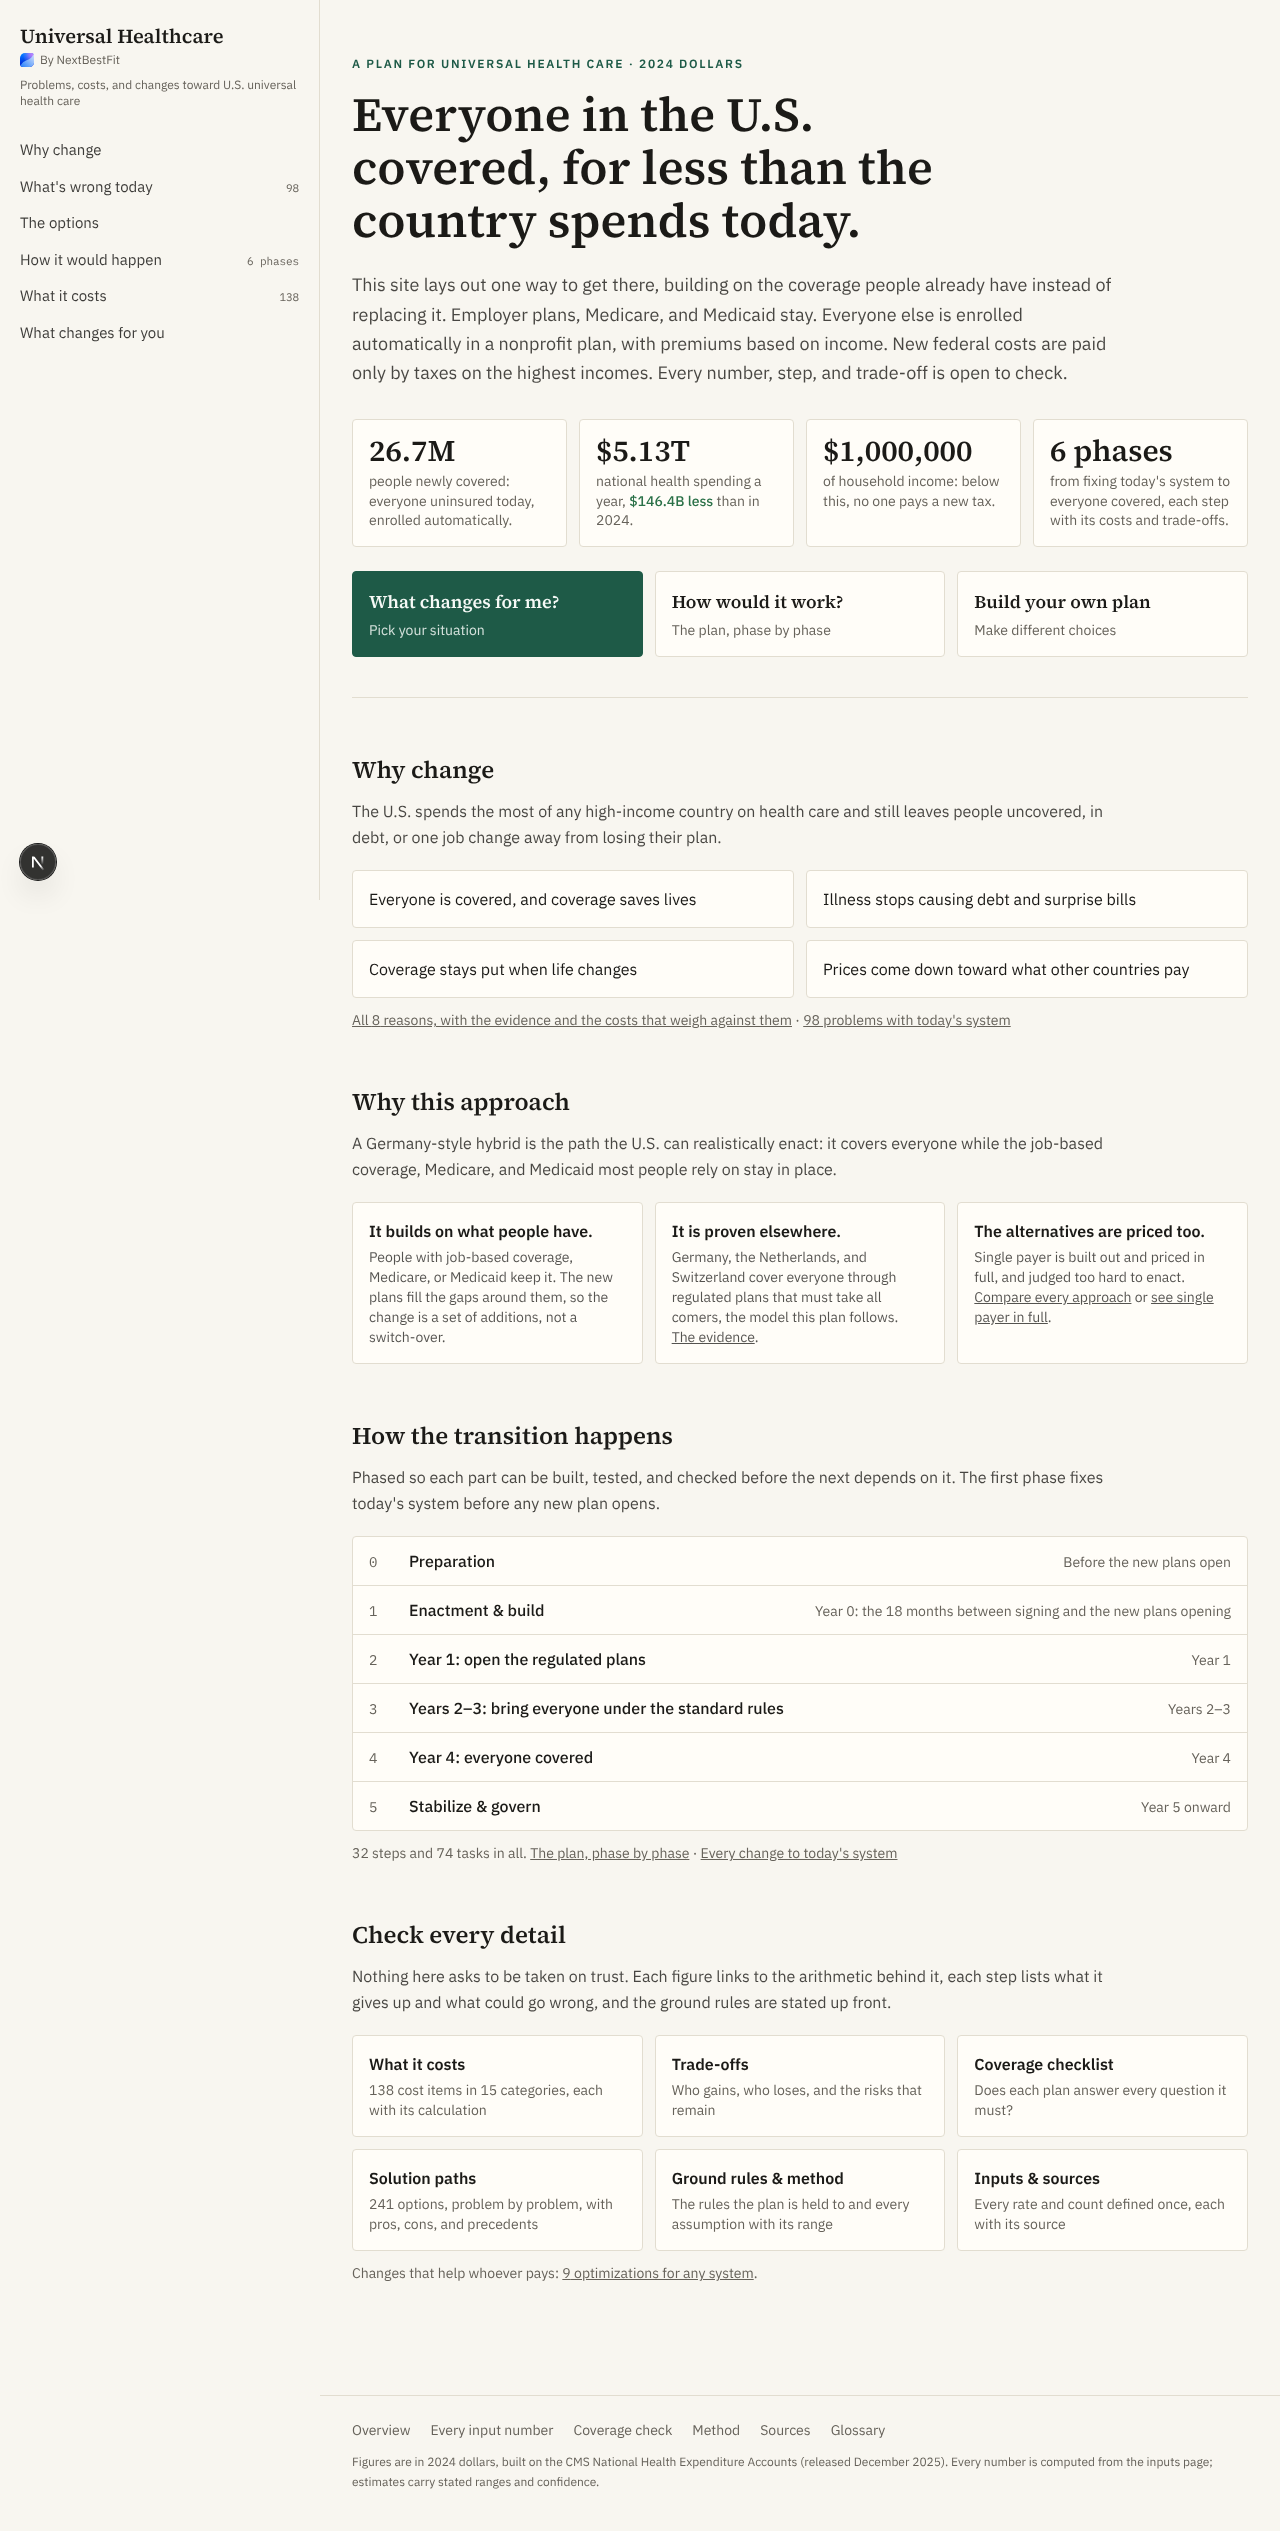
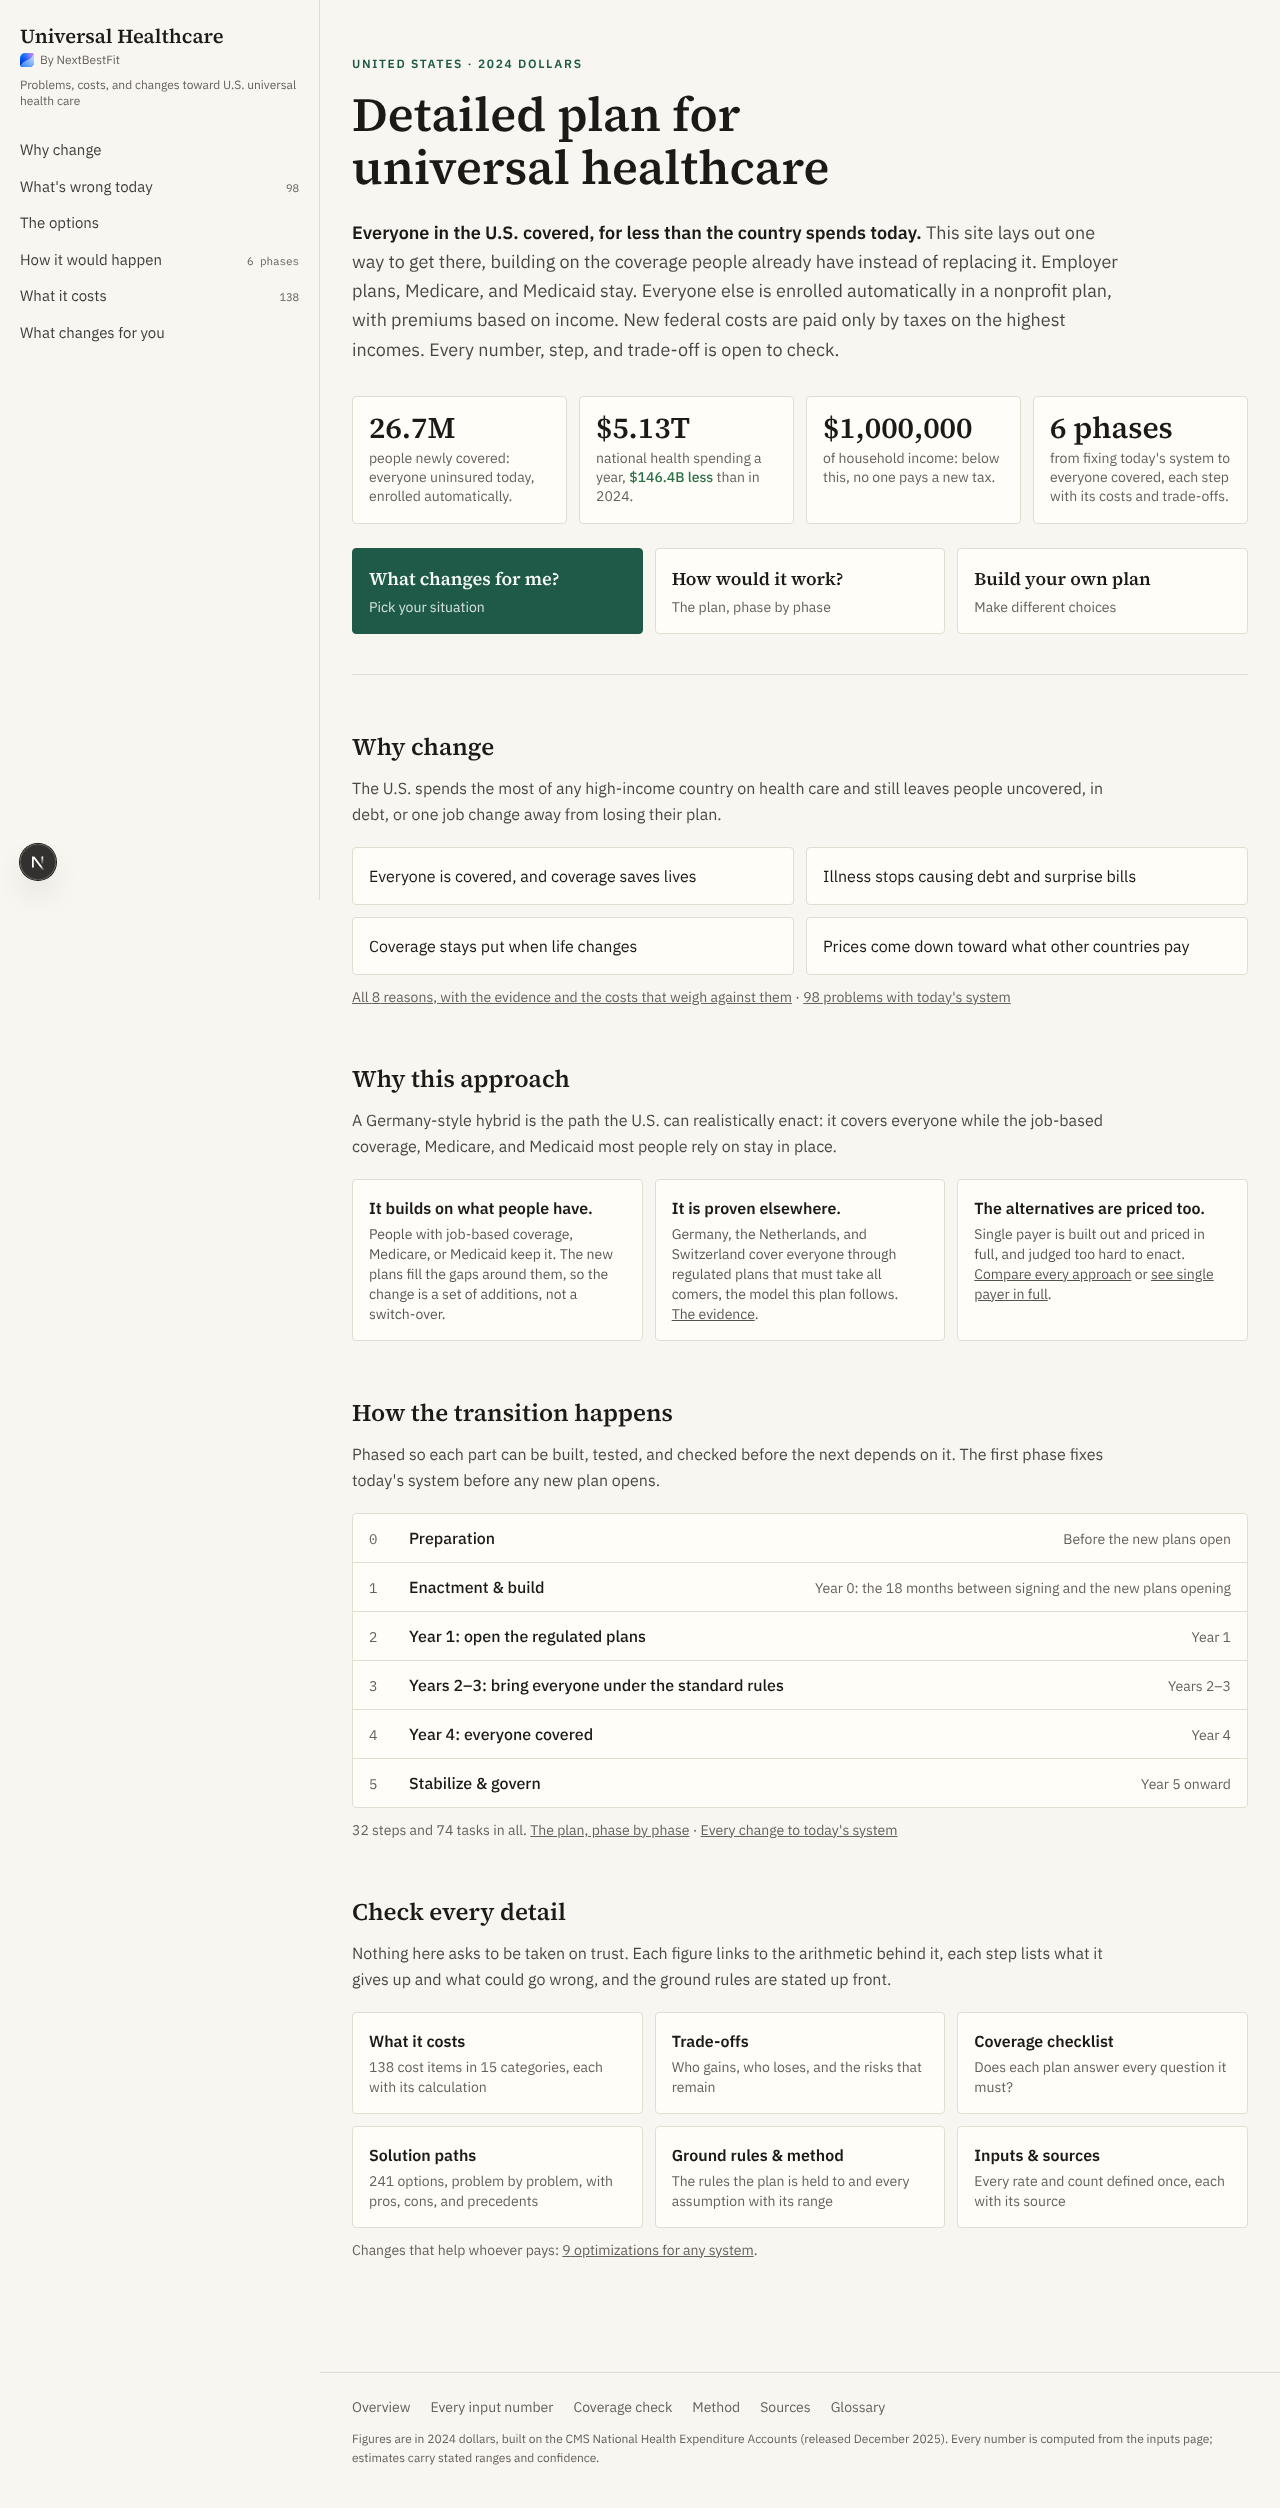
Headline the home page as a detailed plan for universal healthcare
The coverage claim moves to the bold first sentence of the intro.

Claude-Session: https://claude.ai/code/session_01FiWn7beeubrtet8vDGfzhB

diff --git a/apps/website/src/app/page.tsx b/apps/website/src/app/page.tsx
@@ -80,14 +80,17 @@ export default function Home() {
     <Page>
       <header className="mb-14 border-b border-rule pb-10">
         <div className="mb-4 text-xs font-semibold tracking-[0.14em] text-primary uppercase">
-          A plan for universal health care · 2024 dollars
+          United States · 2024 dollars
         </div>
         <h1 className="max-w-3xl text-4xl leading-[1.1] font-semibold sm:text-5xl">
-          {hybridSaves
-            ? "Everyone in the U.S. covered, for less than the country spends today."
-            : "Everyone in the U.S. covered, with every dollar shown."}
+          Detailed plan for universal healthcare
         </h1>
         <p className="mt-6 max-w-3xl text-lg leading-relaxed text-foreground/80">
+          <strong className="font-semibold text-foreground">
+            {hybridSaves
+              ? "Everyone in the U.S. covered, for less than the country spends today."
+              : "Everyone in the U.S. covered, with every dollar shown."}
+          </strong>{" "}
           This site lays out one way to get there, building on the coverage people already have
           instead of replacing it. Employer plans, Medicare, and Medicaid stay. Everyone else is
           enrolled automatically in a nonprofit plan, with premiums based on income. New federal
